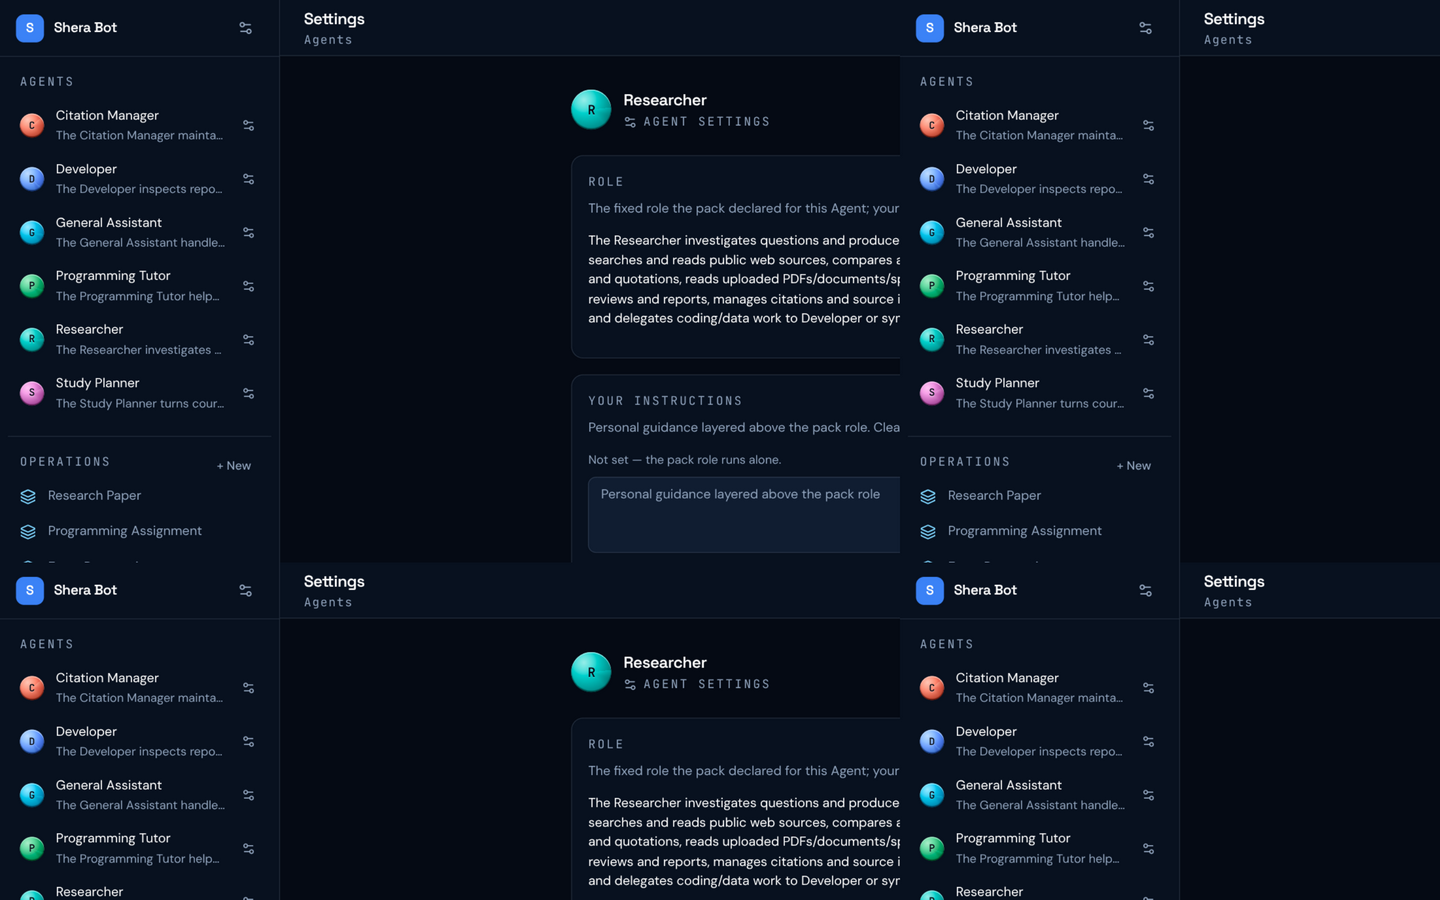
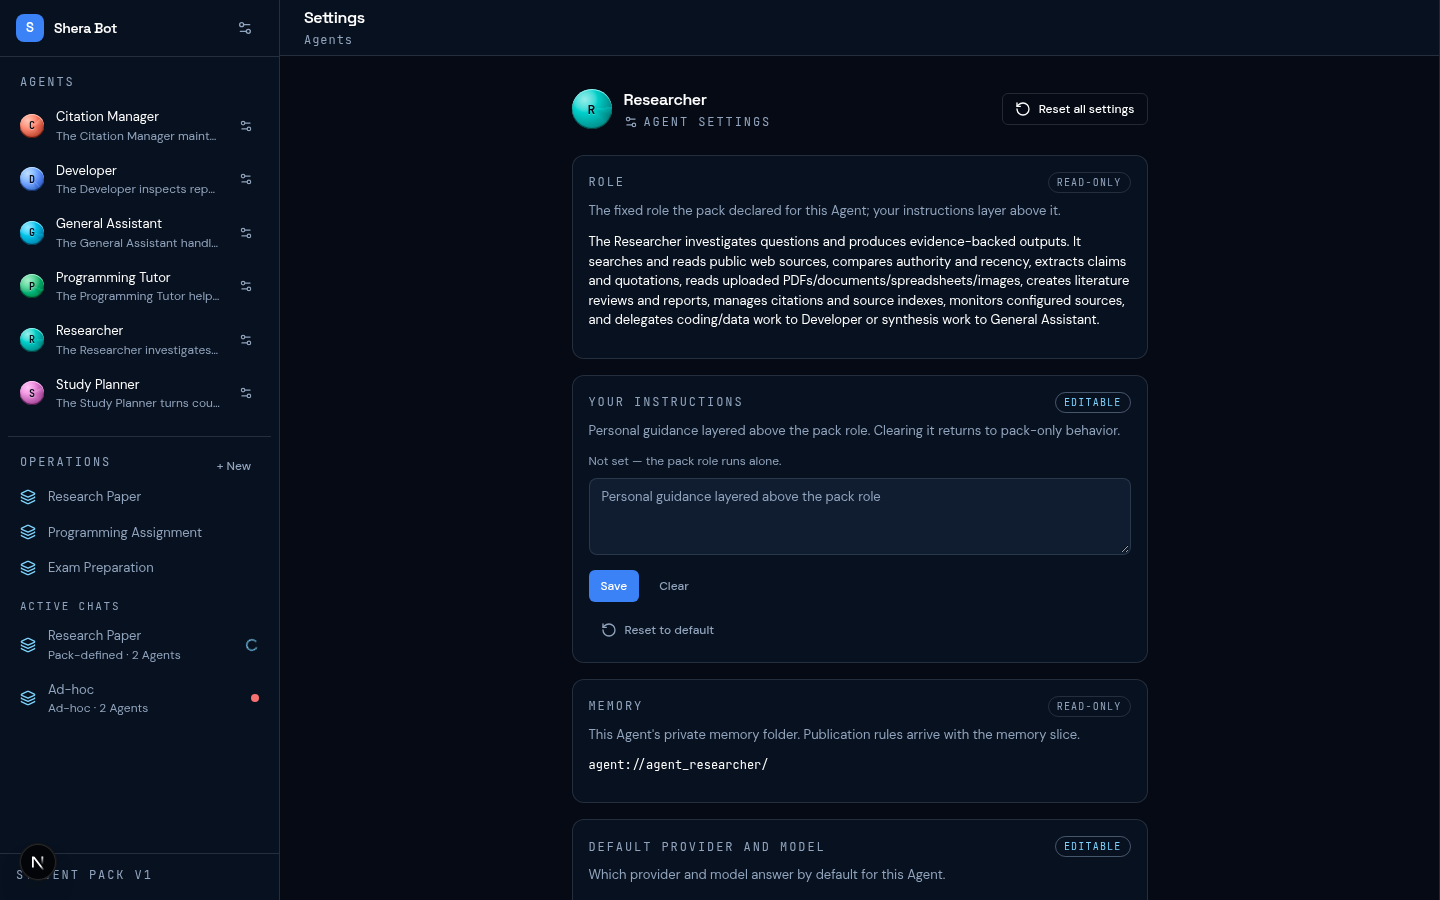
s11: settings commands confirm inline and editors re-sync to the runtime truth
Adversarial taste pass (P3 x2, §6.3 + §2.4 honesty):

- Success feedback: a settled D16 command now leaves a brief green
  'Saved' check beside the Save control it affected (the command's target
  keys, cleared after 2.5 s) — before, a successful Save/Reset did
  nothing visibly at all. Scope comes from the submitted action, so a
  reset_all confirms on every editable card and a targeted save confirms
  only on its own.
- Stale draft: after a reset the value line said 'Not set…' while the
  textarea kept the pre-reset text until reload. Editors now mount keyed
  on the authoritative entry value (settingsEditorKey) — the refetched
  read-after-write snapshot remounts the editor, so the field always
  reflects the server value; unchanged entries keep their draft.
- Live round trip verified: save → Saved badge; reset → textarea empty +
  'Not set'; runtime row restored to its prior (null) value afterwards.

Evidence: settings-saved-affordance-1440.png, settings-reset-synced-1440.png,
fresh settings-researcher-live-1440-full.png.

diff --git a/apps/web/components/settings/agent-settings.tsx b/apps/web/components/settings/agent-settings.tsx
@@ -1,7 +1,7 @@
 "use client";
 
-import { AlertTriangle, RotateCcw, Settings2 } from "lucide-react";
-import { useState, type ReactNode } from "react";
+import { AlertTriangle, Check, RotateCcw, Settings2 } from "lucide-react";
+import { useEffect, useState, type ReactNode } from "react";
 
 import type {
   AgentSettingEntry,
@@ -16,6 +16,7 @@ import { EDITABLE_AGENT_SETTING_KEYS } from "@shera-bot/contracts";
 import { AgentAvatar } from "@/components/chat/agent-avatar";
 import { ErrorState } from "@/components/shell/states";
 import { Button } from "@/components/ui/button";
+import type { AgentSettingsAction } from "@/lib/agent-api";
 import { safeRuntimeMessage, useAgentSettings } from "@/lib/agent-data";
 import { useContainerResolution } from "@/lib/container-connection";
 import { cn } from "@/lib/utils";
@@ -36,13 +37,29 @@ import { cn } from "@/lib/utils";
  * the hook completes the contracts envelope (fresh command_id +
  * idempotency_key per submit) and refetches the snapshot after each accepted
  * command — the runtime's read-after-write result is the truthful update,
- * never an optimistic guess. Resets arm a confirm first: no destructive
+ * never an optimistic guess. Settled commands confirm inline: the edited card
+ * shows a brief "Saved" status (§6.3 visible command feedback), cleared
+ * automatically after a moment. Because the refetched snapshot is the truth,
+ * every editor REMOUNTS from its entry's value (`settingsEditorKey`) — after
+ * a reset or a save the draft field always reflects the server value, never
+ * a pre-command local leftover. Resets arm a confirm first: no destructive
  * command fires from a single click.
  */
 
 export type AgentSettingsSurfaceState = "ready" | "loading" | "error";
 
 export type PendingResetKey = EditableAgentSettingKey | "all" | null;
+
+/**
+ * Stable identity for an editor mount, derived from the AUTHORITATIVE entry
+ * value: when the runtime snapshot changes (save, reset, refetch), the key
+ * changes and React replaces the editor — the draft re-syncs to the server
+ * value. Unchanged entries keep their key, so unrelated commands never wipe
+ * an in-progress draft.
+ */
+export function settingsEditorKey(entry: AgentSettingEntry): string {
+  return `${entry.key}:${JSON.stringify(entry.value)}`;
+}
 
 export interface AgentSettingsViewProps {
   agentName: string;
@@ -57,6 +74,12 @@ export interface AgentSettingsViewProps {
   commandError?: string | undefined;
   /** Test/first-render override for the advanced disclosure (D16). */
   defaultAdvancedOpen?: boolean | undefined;
+  /**
+   * Setting keys the last SETTLED command affected — the edited cards show a
+   * brief inline "Saved" confirmation (§6.3). Empty/undefined = nothing to
+   * confirm (idle, pending, or the confirmation already cleared).
+   */
+  savedKeys?: readonly string[] | undefined;
   onUpdateInstructions: (value: string | null) => void;
   onUpdateDefaultProvider: (provider: ProviderDefault) => void;
   onUpdateToolDefaults: (defaults: AgentToolDefault[]) => void;
@@ -244,12 +267,15 @@ function CapabilitiesValue({ value }: { value: AgentCapabilities }) {
 function EntryValue({
   entry,
   agentName,
+  saved,
   onUpdateInstructions,
   onUpdateDefaultProvider,
   onUpdateToolDefaults,
 }: {
   entry: AgentSettingEntry;
   agentName: string;
+  /** True when the last settled command targeted THIS entry (inline "Saved"). */
+  saved: boolean;
   onUpdateInstructions: AgentSettingsViewProps["onUpdateInstructions"];
   onUpdateDefaultProvider: AgentSettingsViewProps["onUpdateDefaultProvider"];
   onUpdateToolDefaults: AgentSettingsViewProps["onUpdateToolDefaults"];
@@ -282,29 +308,58 @@ function EntryValue({
         </p>
       );
     case "user_instructions": {
+      // The key is the authoritative value: a save/reset remounts this editor
+      // from the refetched snapshot, so the draft never goes stale.
       return (
-        <UserInstructionsEditor entry={entry} onUpdateInstructions={onUpdateInstructions} />
+        <UserInstructionsEditor
+          key={settingsEditorKey(entry)}
+          entry={entry}
+          saved={saved}
+          onUpdateInstructions={onUpdateInstructions}
+        />
       );
     }
     case "default_provider": {
       return (
         <DefaultProviderEditor
+          key={settingsEditorKey(entry)}
           entry={entry}
+          saved={saved}
           onUpdateDefaultProvider={onUpdateDefaultProvider}
         />
       );
     }
     case "tool_defaults": {
-      return <ToolDefaultsEditor entry={entry} onUpdateToolDefaults={onUpdateToolDefaults} />;
+      return (
+        <ToolDefaultsEditor
+          key={settingsEditorKey(entry)}
+          entry={entry}
+          saved={saved}
+          onUpdateToolDefaults={onUpdateToolDefaults}
+        />
+      );
     }
   }
 }
 
+/** The brief inline confirmation a settled command leaves on its card (§6.3). */
+function SavedBadge({ visible }: { visible: boolean }) {
+  if (!visible) return null;
+  return (
+    <span role="status" className="flex items-center gap-1 text-xs text-live">
+      <Check className="size-3.5" aria-hidden="true" />
+      Saved
+    </span>
+  );
+}
+
 function UserInstructionsEditor({
   entry,
+  saved,
   onUpdateInstructions,
 }: {
   entry: Extract<AgentSettingEntry, { key: "user_instructions" }>;
+  saved: boolean;
   onUpdateInstructions: AgentSettingsViewProps["onUpdateInstructions"];
 }) {
   const [draft, setDraft] = useState(entry.value ?? "");
@@ -338,6 +393,7 @@ function UserInstructionsEditor({
         >
           Clear
         </Button>
+        <SavedBadge visible={saved} />
       </div>
     </div>
   );
@@ -345,9 +401,11 @@ function UserInstructionsEditor({
 
 function DefaultProviderEditor({
   entry,
+  saved,
   onUpdateDefaultProvider,
 }: {
   entry: Extract<AgentSettingEntry, { key: "default_provider" }>;
+  saved: boolean;
   onUpdateDefaultProvider: AgentSettingsViewProps["onUpdateDefaultProvider"];
 }) {
   const [providerId, setProviderId] = useState(entry.value.provider_id);
@@ -388,6 +446,7 @@ function DefaultProviderEditor({
         >
           Save
         </Button>
+        <SavedBadge visible={saved} />
       </div>
     </div>
   );
@@ -395,9 +454,11 @@ function DefaultProviderEditor({
 
 function ToolDefaultsEditor({
   entry,
+  saved,
   onUpdateToolDefaults,
 }: {
   entry: Extract<AgentSettingEntry, { key: "tool_defaults" }>;
+  saved: boolean;
   onUpdateToolDefaults: AgentSettingsViewProps["onUpdateToolDefaults"];
 }) {
   const [draft, setDraft] = useState(() => JSON.stringify(entry.value, null, 2));
@@ -438,6 +499,7 @@ function ToolDefaultsEditor({
         <Button size="sm" onClick={apply}>
           Save
         </Button>
+        <SavedBadge visible={saved} />
       </div>
     </div>
   );
@@ -449,6 +511,7 @@ function AgentSettingsEditor({
   snapshot,
   pendingResetKey,
   defaultAdvancedOpen,
+  savedKeys,
   onUpdateInstructions,
   onUpdateDefaultProvider,
   onUpdateToolDefaults,
@@ -460,6 +523,7 @@ function AgentSettingsEditor({
   snapshot: AgentSettingsSnapshot;
   pendingResetKey: PendingResetKey;
   defaultAdvancedOpen: boolean;
+  savedKeys: readonly string[];
   onUpdateInstructions: AgentSettingsViewProps["onUpdateInstructions"];
   onUpdateDefaultProvider: AgentSettingsViewProps["onUpdateDefaultProvider"];
   onUpdateToolDefaults: AgentSettingsViewProps["onUpdateToolDefaults"];
@@ -480,6 +544,7 @@ function AgentSettingsEditor({
       visible.push(entry);
     }
   }
+  const saved = (entry: AgentSettingEntry) => savedKeys.includes(entry.key);
 
   return (
     <div className="space-y-4">
@@ -495,6 +560,7 @@ function AgentSettingsEditor({
           <EntryValue
             entry={entry}
             agentName={agentName}
+            saved={saved(entry)}
             onUpdateInstructions={onUpdateInstructions}
             onUpdateDefaultProvider={onUpdateDefaultProvider}
             onUpdateToolDefaults={onUpdateToolDefaults}
@@ -530,6 +596,7 @@ function AgentSettingsEditor({
                   <EntryValue
                     entry={entry}
                     agentName={agentName}
+                    saved={saved(entry)}
                     onUpdateInstructions={onUpdateInstructions}
                     onUpdateDefaultProvider={onUpdateDefaultProvider}
                     onUpdateToolDefaults={onUpdateToolDefaults}
@@ -554,6 +621,7 @@ export function AgentSettingsView(props: AgentSettingsViewProps) {
     commandPending,
     commandError,
     defaultAdvancedOpen = false,
+    savedKeys = [],
     onResetClick,
     onResetConfirm,
     onResetCancel,
@@ -630,6 +698,7 @@ export function AgentSettingsView(props: AgentSettingsViewProps) {
           snapshot={snapshot}
           pendingResetKey={pendingResetKey}
           defaultAdvancedOpen={defaultAdvancedOpen}
+          savedKeys={savedKeys}
           onUpdateInstructions={props.onUpdateInstructions}
           onUpdateDefaultProvider={props.onUpdateDefaultProvider}
           onUpdateToolDefaults={props.onUpdateToolDefaults}
@@ -668,9 +737,46 @@ export function AgentSettingsSurface({ agentId }: { agentId: string }) {
   );
 }
 
+/** The setting keys a settled command affected — the inline "Saved" targets. */
+function commandTargetKeys(action: AgentSettingsAction): readonly string[] {
+  switch (action.type) {
+    case "agent_settings.update_instructions":
+      return ["user_instructions"];
+    case "agent_settings.update_default_provider":
+      return ["default_provider"];
+    case "agent_settings.update_tool_defaults":
+      return ["tool_defaults"];
+    case "agent_settings.reset_setting":
+      return [action.setting_key];
+    case "agent_settings.reset_all":
+      return [...EDITABLE_AGENT_SETTING_KEYS];
+  }
+}
+
 function RuntimeAgentSettings({ workspaceId, agentId }: { workspaceId: string; agentId: string }) {
   const { detailQuery, settingsQuery, commandMutation } = useAgentSettings(workspaceId, agentId);
   const [pendingResetKey, setPendingResetKey] = useState<PendingResetKey>(null);
+  // §6.3 visible command feedback: the cards a settled command affected show a
+  // brief "Saved" confirmation, cleared after a moment (and immediately when a
+  // new command starts).
+  const [savedKeys, setSavedKeys] = useState<readonly string[]>([]);
+
+  useEffect(() => {
+    if (commandMutation.isPending) {
+      setSavedKeys([]);
+      return;
+    }
+    if (!commandMutation.isSuccess) {
+      return;
+    }
+    const action = commandMutation.variables;
+    if (!action) {
+      return;
+    }
+    setSavedKeys(commandTargetKeys(action));
+    const timer = window.setTimeout(() => setSavedKeys([]), 2500);
+    return () => window.clearTimeout(timer);
+  }, [commandMutation.isSuccess, commandMutation.isPending, commandMutation.variables]);
 
   const pending = detailQuery.isPending || settingsQuery.isPending;
   const failed = detailQuery.isError || settingsQuery.isError;
@@ -704,6 +810,7 @@ function RuntimeAgentSettings({ workspaceId, agentId }: { workspaceId: string; a
       onRetry={retry}
       pendingResetKey={pendingResetKey}
       commandPending={commandMutation.isPending}
+      savedKeys={savedKeys}
       commandError={
         commandMutation.isError
           ? safeRuntimeMessage(commandMutation.error, "The settings command was not accepted.")

diff --git a/apps/web/test/agent-surfaces.test.ts b/apps/web/test/agent-surfaces.test.ts
@@ -11,7 +11,10 @@ import {
 
 import { AgentChatView } from "../components/chat/agent-chat-view";
 import { AgentRosterSection, type AgentRosterEntry } from "../components/shell/agent-roster";
-import { AgentSettingsView } from "../components/settings/agent-settings";
+import {
+  AgentSettingsView,
+  settingsEditorKey,
+} from "../components/settings/agent-settings";
 import {
   buildAgentSettingsCommand,
   fetchAgentRoster,
@@ -360,6 +363,33 @@ describe("agent settings view (§S9 + D16)", () => {
   it("shows the command-in-flight state while a mutation is pending", () => {
     const html = renderSettings({ commandPending: true });
     expect(html).toContain("Saving");
+  });
+
+  it("confirms a settled command inline on the cards it affected (§6.3)", () => {
+    const saved = renderSettings({ savedKeys: ["user_instructions"] });
+    expect(saved).toContain('role="status"');
+    expect(saved).toContain("Saved");
+    // Scoped to the command's target: an untouched card shows nothing.
+    const providerCard = cardFor(saved, "default_provider");
+    expect(providerCard).not.toContain("Saved");
+
+    const idle = renderSettings();
+    expect(idle).not.toMatch(/>\s*Saved\s*</);
+  });
+
+  it("editor mounts key off the authoritative value so drafts never go stale", () => {
+    // The reset finding: after a reset the value line updated ("Not set…") but
+    // the textarea kept the pre-reset text. The fix remounts each editor from
+    // the refetched snapshot — the key is derived from the entry VALUE, so it
+    // changes exactly when the server value changes.
+    const before = SNAPSHOT.entries.find((entry) => entry.key === "user_instructions")!;
+    const keyWith = (value: unknown) =>
+      settingsEditorKey({ ...before, value } as typeof before);
+
+    expect(keyWith(before.value)).toBe(keyWith(before.value)); // stable across refetches
+    expect(keyWith(before.value)).not.toBe(keyWith(null)); // reset → remount
+    expect(keyWith("a")).not.toBe(keyWith("b")); // save → remount
+    expect(keyWith(before.value)).toContain("user_instructions:");
   });
 });
 
